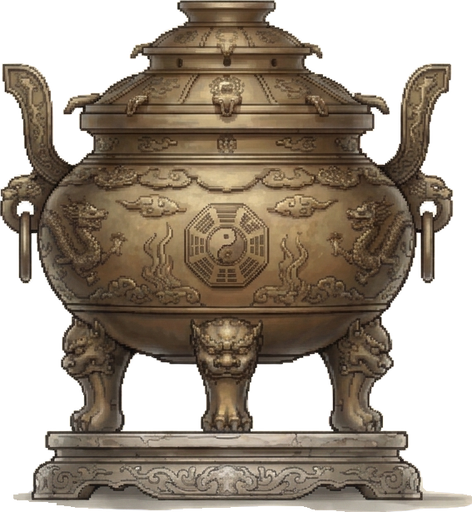
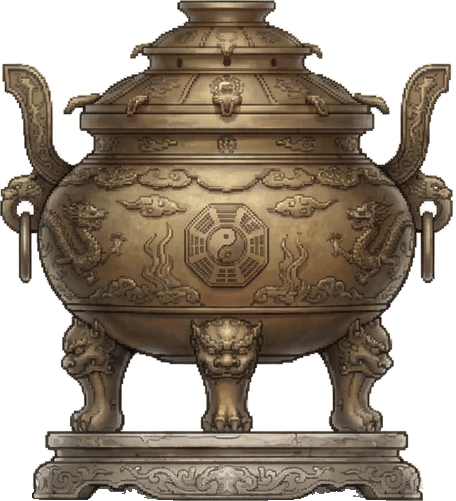
Đan lô: cắt vệt bóng dưới đế
Claude-Session: https://claude.ai/code/session_014A94BHnyL4tu48AS77QbVM

diff --git a/src/ui/screens/Hub.ts b/src/ui/screens/Hub.ts
@@ -789,7 +789,7 @@ export class Hub {
     const burst = Array.from({ length: 16 }, (_, i) => h('i', { class: 'cf-bolt', style: `--a:${Math.round(i * 22.5 + (i % 2) * 9)}deg;--r:${110 + (i % 3) * 40}px;--dl:${0.15 + (i % 4) * 0.08}s` }));
     const furnace = h('div', { class: `cf-furnace ${kind}` },
       h('i', { class: 'cf-glow' }),
-      pic(`/ui/craft/furnace_${kind}.png?v=4`, { class: 'cf-img' }, [0, 0, 1, 1], kind === 'forge' ? [390, 512] : [472, 512]),
+      pic(`/ui/craft/furnace_${kind}.png?v=5`, { class: 'cf-img' }, [0, 0, 1, 1], kind === 'forge' ? [390, 512] : [456, 501]),
       h('i', { class: 'cf-fire' }), h('div', { class: 'cf-sparks' }, ...sparks),
       // lúc luyện: miệng lò (đan lô: lỗ thông hơi) rực sáng, tia lửa bắn tung ra 4 phía + 1 vòng sóng mỏng lan rộng rồi tan
       h('div', { class: 'cf-burst' }, h('i', { class: 'cf-core' }), h('i', { class: 'cf-wave' }), ...burst));

diff --git a/src/ui/styles.css b/src/ui/styles.css
@@ -807,7 +807,7 @@ button.skill-head { width: 100%; font: inherit; color: inherit; text-align: left
 .cf-go { font-size: 18px; padding: 10px 0; }
 /* lò + lửa + tia lửa */
 .cf-furnace { position: relative; height: 100%; max-height: 420px; aspect-ratio: 390 / 512; }
-.cf-furnace.alchemy { aspect-ratio: 472 / 512; }
+.cf-furnace.alchemy { aspect-ratio: 456 / 501; }
 .cf-furnace > * { position: absolute; pointer-events: none; }
 .cf-img { inset: 0; width: 100%; height: 100%; z-index: 1; filter: drop-shadow(0 8px 10px rgba(0, 0, 0, 0.5)); }
 .cf-glow { left: 50%; top: 58%; width: 150%; aspect-ratio: 1; translate: -50% -50%; border-radius: 50%; z-index: 0;

diff --git a/tools/art/furnace_from_ai.py b/tools/art/furnace_from_ai.py
@@ -15,6 +15,7 @@ OUT = os.path.join(os.path.dirname(os.path.dirname(HERE)), 'public', 'ui', 'craf
 
 # đan lô: bỏ đốm lửa xanh dưới đáy, GIỮ chân giữa (chân thứ 3 phía sau, lửa che mất đoạn giữa → nối lại)
 FLAME = {}  # đan lô mới (nền giấy, 3 chân đủ) không cần vá
+SHADOW = {'alchemy': (489, 32, 423, 501)}                             # y, x0, x1, y_end (toạ độ sau khi thu về 512)
 LEG = (166, 202, 380, 486)                                              # x0, x1, y0, y1 chân giữa
 
 
@@ -62,6 +63,17 @@ def main():
                     c = (38, 24, 14) if y >= bottom - 2 else tuple(int(v * shade) for v in col)
                     px[y, x] = (*c, 255)
             im = Image.fromarray(px, 'RGBA')
+        if name in SHADOW:
+            # bỏ vệt bóng mờ dưới đế: từ hàng y trở xuống chỉ giữ điểm ảnh đặc (chân đế), trong bề ngang đế, tới hàng y_end
+            px = np.array(im)
+            y, x0, x1, y_end = SHADOW[name]
+            sub = px[y:, :, 3]
+            sub[sub < 215] = 0
+            sub[:, :x0] = 0
+            sub[:, x1:] = 0
+            sub[y_end - y:] = 0
+            im = Image.fromarray(px, 'RGBA')
+            im = im.crop(im.getchannel('A').getbbox())
         im.save(os.path.join(OUT, f'furnace_{name}.png'), optimize=True)
         print(name, im.size)
 
